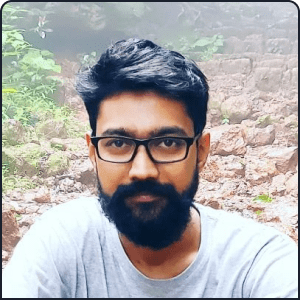
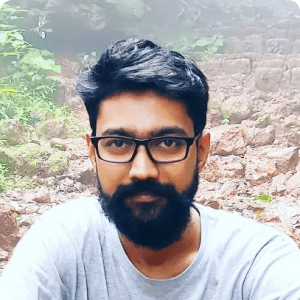
update: image

Changed region(s): [[0.0, 0.0, 1.0, 1.0]]

diff --git a/scss/styles.css b/scss/styles.css
@@ -1023,9 +1023,6 @@ li {
 
 .moderator-member .container .profile-moderator__container .wrapper {
   padding: 20px;
-  border-left: 2px solid #1a202c;
-  border-right: 2px solid #1a202c;
-  border-bottom: 2px solid #1a202c;
   border-bottom-left-radius: 12px;
   border-bottom-right-radius: 12px;
 }

diff --git a/scss/components/_moderator.scss b/scss/components/_moderator.scss
@@ -112,9 +112,6 @@
 
         .wrapper {
           padding: 20px;
-          border-left: 2px solid $gray-900;
-          border-right: 2px solid $gray-900;
-          border-bottom: 2px solid $gray-900;
           border-bottom-left-radius: 12px;
           border-bottom-right-radius: 12px;
 
